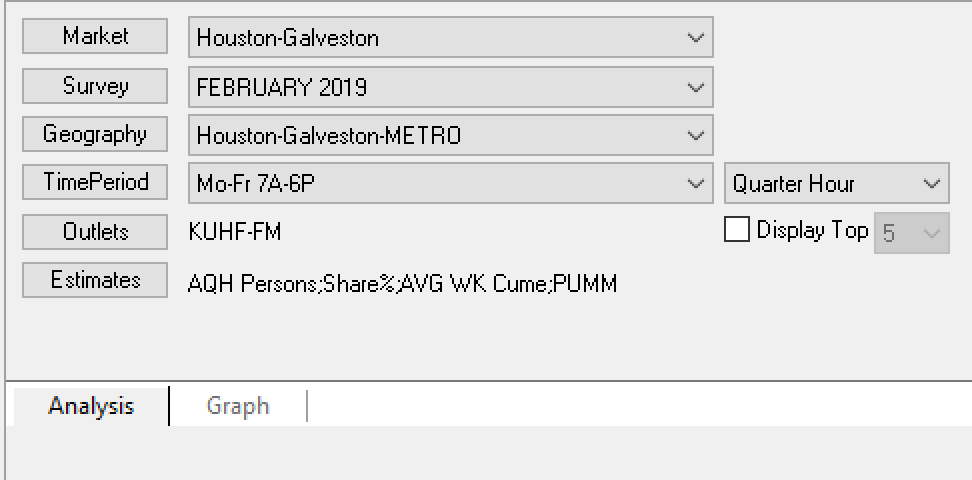
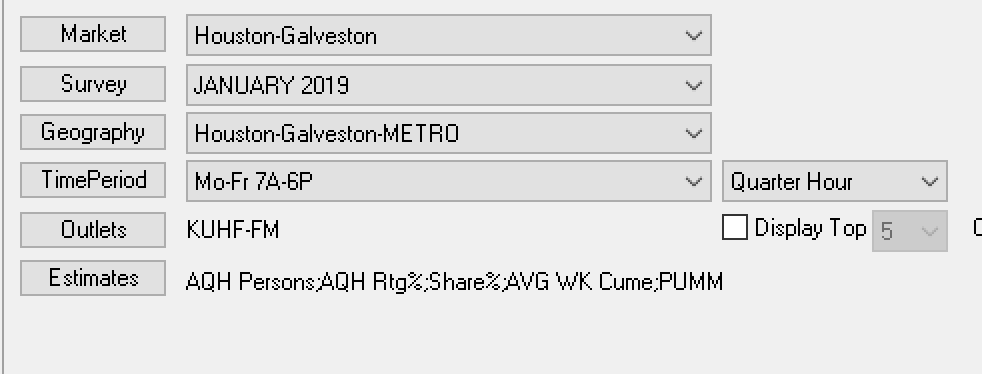
Updated the README to cover the new ROS tab

Changed region(s): [[0.0, 0.0, 1.0, 1.0], [0.216, 0.8235, 0.2778, 0.8824]]

diff --git a/README.md b/README.md
@@ -16,12 +16,13 @@ This application was built to help visualize and aggregate newscast analytics fo
 			<li>Select your Geography. I usually pull the METRO Geography (as opposed to DMA), but we should decide as a group to be consistent.</li>
 			<li>Select your TimePeriod.  We will need to create a custom period, so click on the <code>TimePeriod</code> button. In the popup, click the "Custom" tab, select "Monday" for your Start Day, "Friday" for your End Day, Start Time of 7AM, End Time of 6PM, and select "Avg. All" under Day Selection. Click the <code>Select</code> button to enter it into the "Selected" pane below. You can also add it to your favorites, if you want.<br /><br /><strong><em>Make sure that the secondary dropdown on TimePeriod is set to "Quarter Hour." Very important.</em></strong><br /><img src="screenshots/screen-04.png" alt="Creating a custom time period" width="500"></li>
 			<li>Select your Outlet. Please only select one outlet at a time, since it will skew the Analysis Totals otherwise.</li>
-			<li>Select your Estimates by clicking the <code>Estimates</code> button. The reporting is currently set up to accept "AQH Persons," "Share%," "AVG WK Cume," and "PUMM." Once you have moved them into the "Selected" pane, please order them as pictured. The parsing script is set up to pull the metrics in that order. That may change in the future, but for the time being, please set it up this way.<br /><img src="screenshots/screen-06.png" alt="Setting up our estimates" width="500"></li>
+			<li>Select your Estimates by clicking the <code>Estimates</code> button. The reporting is currently set up to accept "AQH Persons," "AQH RTG%", "Share%," "AVG WK Cume," and "PUMM." Once you have moved them into the "Selected" pane, you can order them as pictured or not. The parsing script will figure it out.<br /><img src="screenshots/screen-06.png" alt="Setting up our estimates" width="500"></li>
 			<li>Select the rest of the reporting options: Target to "P 6+", Location to "Both In/Out of Home", Listening to "Threshold Not Set".<br /><img src="screenshots/screen-07.png" alt="The remaining settings" width="500"></li>
 		</ol>
 	</li>
 	<li id="step-3"><strong><em>If you already have your reporting setup in place, skip to here</em></strong><br />Click the <code>Run Analysis</code> button.</li>
 	<li>Click the <code>Excel</code> icon in the toolbar up top. In the popover, select "Export to a New Excel File" and click <code>Finish</code>. You can name the file whatever you want, it doesn't matter.<br /><img src="screenshots/screen-08.png" alt="Click the Excel button" width="500"><br /><img src="screenshots/screen-09.png" alt="Select export to a new excel file" width="500"></li>
+	<li>You will also want to run a more broad "run-of-station" report, which will flow into the "Broadcast Overview" section of the graphing app. It is the same report as above, but it should be run on a <code>TimePeriod</code> of Monday-Sunday, 6AM - 12AM. After you create the TimePeriod, select "Block" from the dropdown, click <code>Run Analysis</code>, and export to an Excel file.<br /><img src="screenshots/screen-12.png" alt="Run-of-Station report settings" width="500"></li>
 	<li>In your browser of choice, go to <a href="https://analytics.hpm.io/hub/upload/">the News Hub upload page</a>, and enter the password you've been given.</li>
 	<li>Drag-and-drop your file into the dropzone, or click in the dropzone to bring up a file picker. You can upload multiple files at a time, as long as the files contain one month's data for one station.<br /><img src="screenshots/screen-11.png" alt="The upload screen" width="500"></li>
 </ol>
